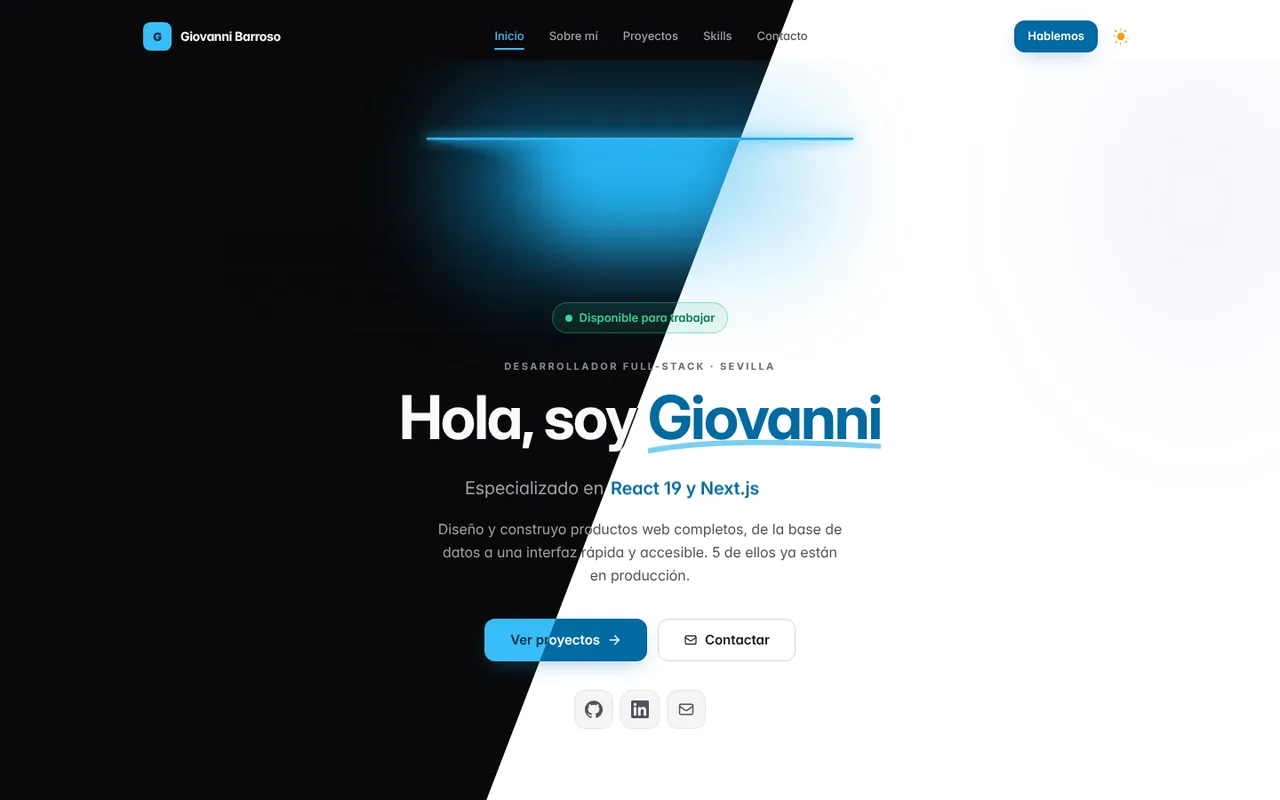
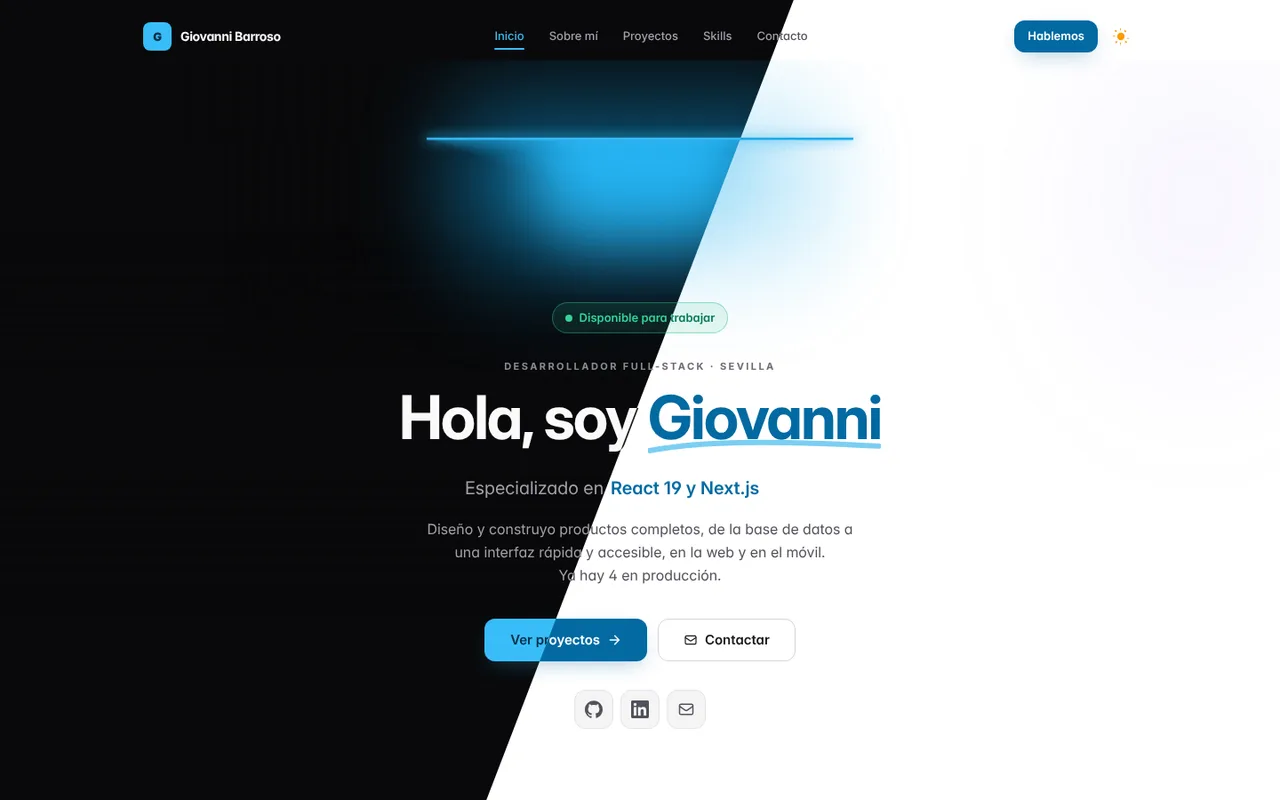
fix: correcciones tras la revisión del rediseño
- MyBalance: Android y Wear OS están en pruebas en Google Play, no publicados
- La app se monta aunque falle la vista inicial y se recarga sola si un
  despliegue deja trozos de JS o CSS viejos
- Imprimir o guardar en PDF muestra todo el contenido y las cifras reales
- Las capturas se revalidan en segundo plano en vez de quedarse 30 días
- Volver atrás durante la transición ya no sube la página al principio
- /about.html, /index.html y similares llevan a su ruta limpia
- Textos: descripción de Proyectos, Skills con Prisma, Sentry y Umami,
  «Qué construimos» en proyectos de equipo y ortografía
- Captura de Mi Portfolio y del README al día

Changed region(s): [[0.3438, 0.6562, 0.6562, 0.75]]

diff --git a/src/data/projects.ts b/src/data/projects.ts
@@ -13,9 +13,9 @@ export const projects: Project[] = [
     title: 'MyBalance',
     type: 'Producto multiplataforma',
     summary:
-      'App de entreno con un objetivo y una fecha: web instalable, Android en Google Play con Wear OS e iOS en camino.',
+      'App de entreno con un objetivo y una fecha: web instalable, Android y Wear OS en pruebas en Play, e iOS en camino.',
     description:
-      'App de entreno con un objetivo y una fecha. Montas tus rutinas o eliges un plan hecho para tus días, entrenas con la sesión en vivo —también sin cobertura— y la app te dice qué peso poner la próxima vez, qué se ha estancado y cómo vas hacia tu meta. Incluye seguimiento físico, deportes con GPS, análisis de técnica por vídeo y un modo amigos con ranking y feed. La web, en Next.js y Supabase e instalable como PWA, es la fuente de verdad: las apps nativas de Android (Kotlin y Jetpack Compose, publicada en Google Play y con app para Wear OS) e iOS (SwiftUI, pendiente de publicar) hacen lo mismo hablando con una API versionada a partir de un contrato compartido.',
+      'App de entreno con un objetivo y una fecha. Montas tus rutinas o eliges un plan hecho para tus días, entrenas con la sesión en vivo —también sin cobertura— y la app te dice qué peso poner la próxima vez, qué se ha estancado y cómo vas hacia tu meta. Incluye seguimiento físico, deportes con GPS, análisis de técnica por vídeo y un modo amigos con ranking y feed. La web, en Next.js y Supabase e instalable como PWA, es la fuente de verdad: las apps nativas de Android (Kotlin y Jetpack Compose, con app para Wear OS, en pruebas internas en Google Play) e iOS (SwiftUI, pendiente de publicar) hacen lo mismo hablando con una API versionada a partir de un contrato compartido.',
     highlights: [
       'Sesión en vivo con descansos, superseries y dropsets, y modo sin conexión completo: se empieza, se sigue y se termina sin red.',
       'Consejo de carga por ejercicio, detección de estancamientos, récords y mapa muscular semanal.',
@@ -164,9 +164,9 @@ export const projects: Project[] = [
     slug: 'analytics-umami',
     title: 'Analytics Umami',
     type: 'Self-hosting',
-    summary: 'Analítica web auto-hospedada y sin cookies para mis proyectos, desplegada en Vercel.',
+    summary: 'Analítica web autoalojada y sin cookies para mis proyectos, desplegada en Vercel.',
     description:
-      'Instancia auto-hospedada de Umami Analytics desplegada en Vercel para medir el tráfico de proyectos propios como Cosas D Casa y Date un Respiro. Analítica sin cookies y respetuosa con el RGPD, con eventos personalizados y consulta de métricas vía API.',
+      'Instancia autoalojada de Umami Analytics desplegada en Vercel para medir el tráfico de proyectos propios como Cosas D Casa y Date un Respiro. Analítica sin cookies y respetuosa con el RGPD, con eventos personalizados y consulta de métricas vía API.',
     highlights: [
       'Instancia propia de Umami desplegada en Vercel sobre PostgreSQL.',
       'Mide el tráfico de proyectos propios como Cosas D Casa y Date un Respiro.',

diff --git a/src/router/index.ts b/src/router/index.ts
@@ -22,7 +22,9 @@ const router = createRouter({
           ? true
           : {
               name: 'not-found',
-              params: { pathMatch: to.path.slice(1).split('/') },
+              // Los params ya vienen decodificados: con to.path (codificado)
+              // se volvían a codificar y la URL crecía en cada recarga
+              params: { pathMatch: ['projects', String(to.params.slug)] },
               query: to.query,
               hash: to.hash,
               replace: true,
@@ -48,10 +50,57 @@ const router = createRouter({
     // Página nueva: se espera a que entre y se coloca sin animación.
     // Un scroll suave desde el pie hasta arriba de otra página marea.
     if (from.matched.length) await waitForPageEnter()
+    // Si mientras tanto hubo otra navegación (volver atrás enseguida), esta ya
+    // no manda: su espera acabaría por tiempo y subiría la página al principio
+    if (router.currentRoute.value.fullPath !== to.fullPath) return false
     if (savedPosition) return savedPosition
     if (to.hash) return { el: to.hash, top: NAV_OFFSET }
     return { top: 0 }
   },
+})
+
+/**
+ * GitHub Pages sirve también los ficheros reales (`/about.html`,
+ * `/index.html`…). La SPA no tiene esas rutas: se llevan a la limpia.
+ */
+router.beforeEach((to) => {
+  if (!to.path.endsWith('.html')) return true
+  const clean = to.path.replace(/(\/index)?\.html$/, '') || '/'
+  return { path: clean, query: to.query, hash: to.hash, replace: true }
+})
+
+/**
+ * Tras un despliegue, una pestaña abierta antes puede pedir trozos de JS o
+ * CSS que ya no existen. En vez de dejar enlaces muertos, se recarga una vez
+ * la página de destino (con una marca para no entrar en bucle). Lo hace el
+ * router y no `vite:preloadError`, porque el router sabe adónde se iba.
+ */
+const RELOAD_FLAG = 'chunk-reload'
+const isChunkError = (err: unknown) =>
+  /dynamically imported module|Importing a module script failed|error loading dynamically|Unable to preload CSS/i.test(
+    String((err as Error)?.message ?? err)
+  )
+
+function reloadOnce(path: string) {
+  try {
+    if (sessionStorage.getItem(RELOAD_FLAG)) return
+    sessionStorage.setItem(RELOAD_FLAG, '1')
+  } catch {
+    return
+  }
+  window.location.assign(path)
+}
+
+router.onError((err, to) => {
+  if (isChunkError(err)) reloadOnce(to.fullPath)
+})
+
+router.afterEach(() => {
+  try {
+    sessionStorage.removeItem(RELOAD_FLAG)
+  } catch {
+    // Sin almacenamiento no hay marca que limpiar
+  }
 })
 
 export default router

diff --git a/src/assets/main.css b/src/assets/main.css
@@ -618,6 +618,39 @@
 }
 
 /* ═══════════════════════════════════════════════════════════════
+   IMPRESIÓN Y PDF
+   Al imprimir no hay scroll: lo que aún no había aparecido saldría en
+   blanco. Todo visible, sin navbar ni botones flotantes.
+   ═══════════════════════════════════════════════════════════════ */
+
+@media print {
+  .reveal {
+    opacity: 1 !important;
+    translate: none !important;
+    transition: none !important;
+  }
+  [data-print='hide'] {
+    display: none !important;
+  }
+  main {
+    padding-top: 0 !important;
+  }
+  .count-anim {
+    display: none !important;
+  }
+  .count-final {
+    position: static !important;
+    width: auto !important;
+    height: auto !important;
+    margin: 0 !important;
+    overflow: visible !important;
+    clip: auto !important;
+    clip-path: none !important;
+    white-space: normal !important;
+  }
+}
+
+/* ═══════════════════════════════════════════════════════════════
    CAMBIO DE TEMA (View Transitions API)
    La animación circular la dirige theme.ts; aquí sólo se desactiva
    el fundido por defecto para que no se superponga.

diff --git a/src/config/seo.ts b/src/config/seo.ts
@@ -63,14 +63,14 @@ export const PAGES = {
   projects: {
     path: '/projects',
     title: 'Proyectos',
-    description: `${projects.length} proyectos con demo o código: una app de entreno en web, Android e iOS, un e-commerce con Stripe en producción, apps de escritorio e infraestructura.`,
+    description: `${projects.length} proyectos: una app de entreno en web y Android (iOS en camino), un e-commerce con Stripe en producción, una app de escritorio e infraestructura.`,
     priority: 0.9,
   },
   skills: {
     path: '/skills',
     title: 'Skills',
     description:
-      'Tecnologías con las que trabajo, agrupadas por área y enlazadas a los proyectos donde las he usado: Vue, React, Next.js, NestJS, Supabase, Docker y más.',
+      'Tecnologías con las que trabajo, agrupadas por área y enlazadas a los proyectos donde las he usado: Vue, React, Next.js, Supabase, Stripe, Kotlin y más.',
     priority: 0.7,
   },
   contact: {
@@ -93,7 +93,7 @@ export function projectSeo(p: Project): PageSeo {
     title: p.title,
     description: p.summary,
     image: projectOgImage(p),
-    imageAlt: `${p.title}: ${p.summary}`,
+    imageAlt: `${p.title} — ${p.summary}`,
     kind: 'article',
     priority: 0.6,
   }

diff --git a/src/views/HomeView.vue b/src/views/HomeView.vue
@@ -55,7 +55,8 @@
         class="hero-desc measure-tight mt-4 text-center text-fluid-sm leading-relaxed text-fg-muted"
       >
         Diseño y construyo productos completos, de la base de datos a una interfaz rápida y
-        accesible, en la web y en el móvil. {{ counts.inProduction }} ya están en producción.
+        accesible, en la web y en el móvil. Ya&nbsp;hay&nbsp;{{ counts.inProduction }}&nbsp;en
+        producción.
       </p>
 
       <div
@@ -191,7 +192,7 @@
         <PageHeader
           eyebrow="Stack"
           title="Tecnologías que uso a diario"
-          subtitle="Las que aparecen en mis proyectos. La lista completa, con dónde he usado cada una, está en Skills."
+          subtitle="Las que más uso. En Skills está cada una, con los proyectos donde aparece."
           title-id="stack-title"
         />
       </div>

diff --git a/src/data/about.ts b/src/data/about.ts
@@ -4,7 +4,7 @@ export const aboutData: AboutData = {
   tags: ['Full-stack', 'Accesibilidad', 'Rendimiento'],
   achievements: [
     'E-commerce en producción con cobros y reembolsos vía Stripe.',
-    'App de entreno multiplataforma: web instalable, Android en Google Play con Wear OS e iOS, sobre una misma API.',
+    'App de entreno multiplataforma sobre una misma API: web instalable, Android y Wear OS en pruebas en Google Play, e iOS en camino.',
     'APIs REST en NestJS + Prisma con JWT, multi-tenant y Docker.',
     'Tests con Vitest/Jest y despliegue continuo en Vercel y GitHub Pages.',
     'SEO técnico, PWA y modo oscuro accesible.',

diff --git a/src/components/common/BackToTop.vue b/src/components/common/BackToTop.vue
@@ -4,6 +4,7 @@
       v-if="visible"
       type="button"
       aria-label="Volver al principio de la página"
+      data-print="hide"
       class="fixed bottom-[calc(1.25rem+env(safe-area-inset-bottom))] right-[calc(1.25rem+env(safe-area-inset-right))] z-float grid h-12 w-12 place-items-center rounded-full border border-hair bg-surface/90 text-fg-muted shadow-lg backdrop-blur-md transition-colors duration-200 hover:border-accent hover:text-accent-text sm:bottom-[calc(2rem+env(safe-area-inset-bottom))] sm:right-[calc(2rem+env(safe-area-inset-right))]"
       @click="scrollToTop"
     >

diff --git a/vite.config.ts b/vite.config.ts
@@ -54,7 +54,9 @@ export default defineConfig({
         runtimeCaching: [
           {
             urlPattern: ({ request, sameOrigin }) => sameOrigin && request.destination === 'image',
-            handler: 'CacheFirst',
+            // Las capturas se sobrescriben con el mismo nombre al actualizarlas:
+            // se sirven de caché al instante y se revalidan en segundo plano
+            handler: 'StaleWhileRevalidate',
             options: {
               cacheName: 'images',
               expiration: { maxEntries: 60, maxAgeSeconds: 60 * 60 * 24 * 30 },

diff --git a/src/main.ts b/src/main.ts
@@ -14,4 +14,9 @@ const app = createApp(App).use(router).use(createHead())
 // Se monta cuando la vista inicial (cargada bajo demanda) ya está lista. Si
 // no, el pie se pinta arriba un instante y luego salta hacia abajo: eso era
 // un CLS de 0,9 en Lighthouse.
-router.isReady().then(() => app.mount('#app'))
+// Si falla (sin red al pedir la vista), se monta igual: mejor el navbar y el
+// pie que una página en blanco.
+router
+  .isReady()
+  .catch(() => {})
+  .finally(() => app.mount('#app'))

diff --git a/src/views/ProjectDetailView.vue b/src/views/ProjectDetailView.vue
@@ -88,7 +88,7 @@
         <section aria-labelledby="highlights">
           <h2 id="highlights" class="flex items-center gap-3 text-lg font-bold text-fg">
             <span class="h-5 w-1 rounded-full bg-accent" aria-hidden="true" />
-            Qué construí
+            {{ project.team ? 'Qué construimos' : 'Qué construí' }}
           </h2>
           <ol class="mt-6 divide-y divide-hair border-y border-hair">
             <li

diff --git a/src/data/skills.ts b/src/data/skills.ts
@@ -32,6 +32,7 @@ export const skillCategories: SkillCategory[] = [
     items: [
       'Node.js (Express)',
       'NestJS',
+      'Prisma',
       'REST API',
       'Supabase',
       'PostgreSQL',
@@ -61,6 +62,8 @@ export const skillCategories: SkillCategory[] = [
       'Docker',
       'Docker Compose',
       'Vercel',
+      'Sentry',
+      'Umami',
       'Nginx',
       'Linux',
       'Husky',

diff --git a/src/components/common/CountUp.vue b/src/components/common/CountUp.vue
@@ -1,8 +1,8 @@
 <template>
   <!-- El valor final va siempre en el árbol accesible; la cuenta es visual -->
   <span ref="el" class="tabular-nums">
-    <span aria-hidden="true">{{ display }}</span>
-    <span class="sr-only">{{ value }}</span>
+    <span class="count-anim" aria-hidden="true">{{ display }}</span>
+    <span class="count-final sr-only">{{ value }}</span>
   </span>
 </template>
 
